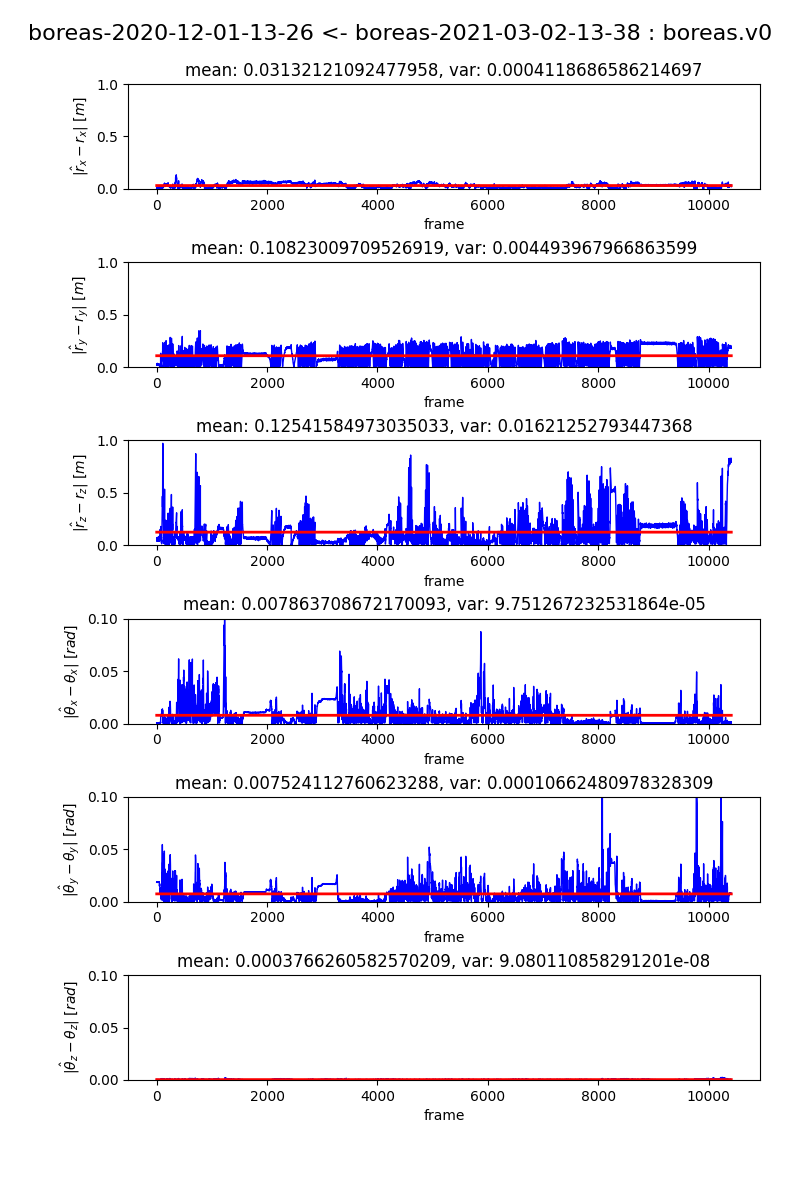
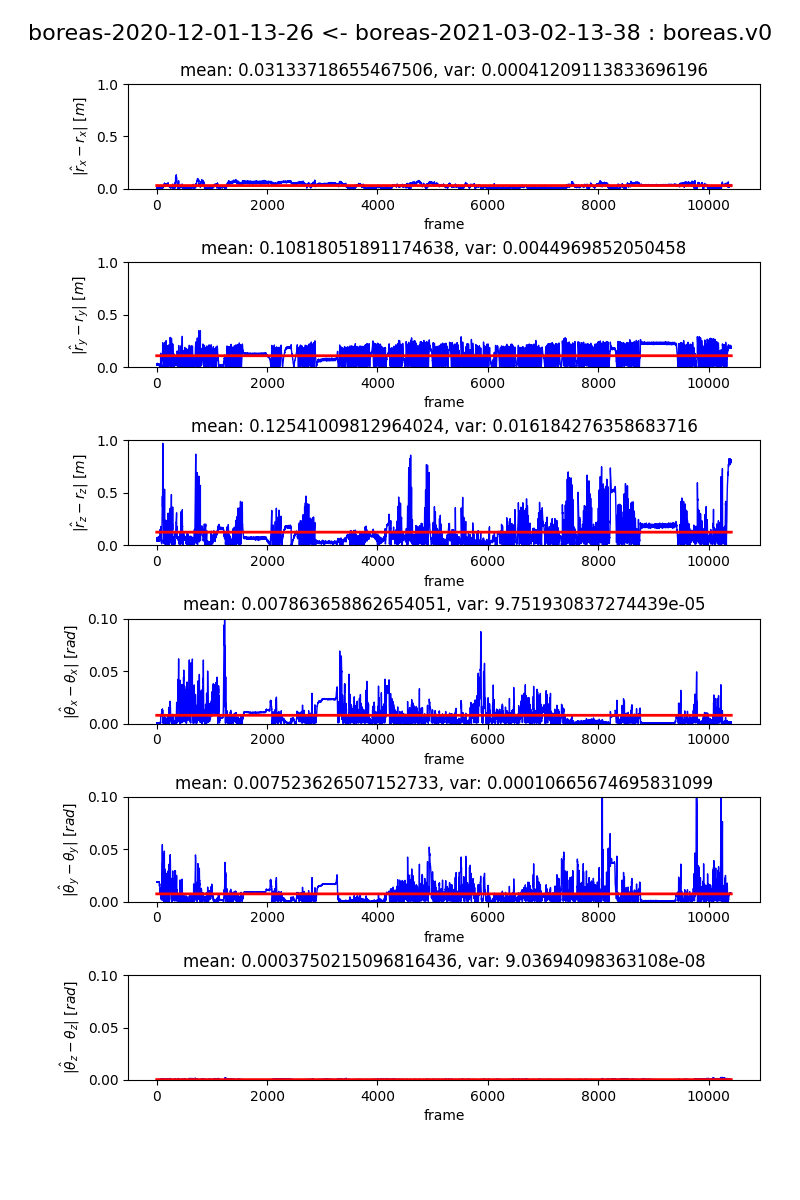
results

diff --git a/check_icp_results.py b/check_icp_results.py
@@ -134,8 +134,8 @@ def main(data_dir):
     gs = gridspec.GridSpec(1, 2, width_ratios=[1, 2])
     # fig.subplots_adjust(left=0.16, right=0.95, bottom=0.1, top=0.93, wspace=0.7, hspace=0.7)
 
-    ax1 = fig.add_subplot(gs[0]); ax1.set_ylim(top=8000); bin_max1 = 40; hist_bins1 = np.linspace(0, bin_max1, 80)
-    ax2 = fig.add_subplot(gs[1]); ax2.set_ylim(top=800); bin_max2 = 40; hist_bins2 = np.linspace(0, bin_max2, 80)
+    ax1 = fig.add_subplot(gs[0]); ax1.set_ylim(top=12000); bin_max1 = 30; hist_bins1 = np.linspace(0, bin_max1, 100)
+    ax2 = fig.add_subplot(gs[1]); ax2.set_ylim(top=2000); bin_max2 = 10; hist_bins2 = np.linspace(0, bin_max2, 100)
 
     bar_containers1 = []
     bar_containers2 = []
@@ -145,9 +145,9 @@ def main(data_dir):
       _, _, bar_container2 = ax2.hist(np.random.randn(1000), hist_bins2, lw=1, alpha=0.5, label=trial)
       bar_containers2.append(bar_container2)
 
-    ax1.set_xlabel("nearest neighbor planar distance [m]")
+    ax1.set_xlabel("planar distance to NN in point map [m], bin size 0.3m")
     ax1.set_ylabel("number of points in scan")
-    ax2.set_xlabel("nearest neighbor planar distance [m]")
+    ax2.set_xlabel("planar distance to NN in point map [m], bin size 0.1m")
     ax2.set_ylabel("number of points in scan")
 
     ax1.legend()
@@ -193,7 +193,7 @@ def main(data_dir):
 
         return updated
 
-    ani = animation.FuncAnimation(fig, animate, enumerate(zip(*[x[1] for x in trial_msg_iter])), repeat=False, blit=True, save_count=10400, interval=50)
+    ani = animation.FuncAnimation(fig, animate, enumerate(zip(*[x[1] for x in trial_msg_iter])), repeat=False, blit=True, save_count=10400, interval=200)
     # plt.show()
     ani.save(osp.join(odo_input, loc_input, "icp_error.mp4"))
 

diff --git a/compute_localization_error.py b/compute_localization_error.py
@@ -202,13 +202,20 @@ def main(data_dir):
       os.makedirs(osp.join(odo_input, loc_input), exist_ok=True)
       fig.savefig(osp.join(odo_input, loc_input, trial+'.png'))
 
-  # # plot box plot based on the two maps
-  # os.makedirs(odo_input, exist_ok=True)
-  # for k, v in date2trial_map.items():
-  #   fig = plt.figure()
-  #   plot_error_box(fig, v)
-  #   fig.suptitle(odo_input + " <- " + k, fontsize=16)
-  #   fig.savefig(osp.join(odo_input, k+'_box.png'))
+  # plot box plot based on the two maps
+  os.makedirs(odo_input, exist_ok=True)
+
+  for k, v in date2trial_map.items():
+    # error
+    fig = plt.figure()
+    plot_error_box(fig, v)
+    fig.suptitle(odo_input + " <- " + k, fontsize=16)
+    fig.savefig(osp.join(odo_input, k+'_box.png'))
+    # np.abs(error)
+    fig = plt.figure()
+    plot_error_box(fig, v, np.abs, r"$|\hat{tran}_dir - tran_dir|$ [$unit$]")
+    fig.suptitle(odo_input + " <- " + k, fontsize=16)
+    fig.savefig(osp.join(odo_input, k+'_abs_box.png'))
 
   for k, v in trial2date_map.items():
     # error
